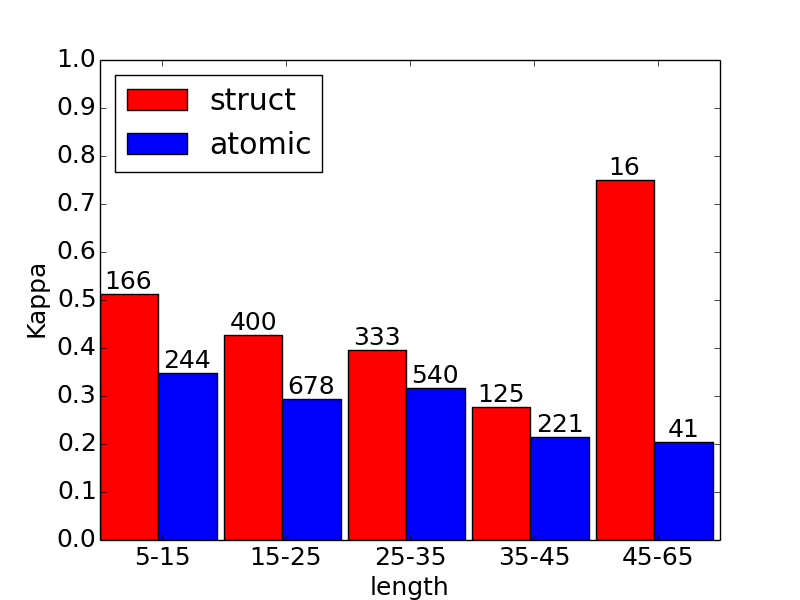
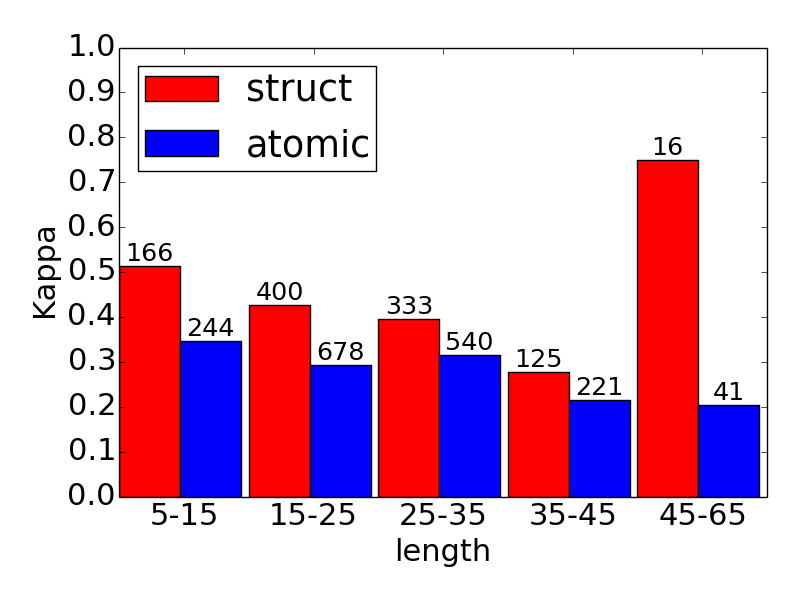
reinstate heatmap, figure scale

diff --git a/paper/main.tex b/paper/main.tex
@@ -17,7 +17,8 @@
 \newcommand{\secref}[1]{Section~\ref{#1}}
 \newcommand{\figref}[1]{Figure~\ref{#1}}
 \newcommand{\tabref}[1]{Table~\ref{#1}}
-\newcommand{\XXX}[1]{{\color{red}XXX #1}} % a general todo or comment
+%\newcommand{\XXX}[1]{{\color{red}XXX #1}} % a general todo or comment
+\newcommand{\XXX}[1]{}
 %\newcommand{\oa}[1]{\footnote{\color{red}OA: #1}}
 \newcommand{\oa}[1]{}
 %\newcommand{\bh}[1]{\footnote{\color{blue}BH: #1}}
@@ -1059,9 +1060,10 @@ To assess whether, as we hoped, HUME would make it easier to reliably annotate l
 we binned the sentences according to length and measured Kappa on each of the bins. Each bin covers
 a length range of 10, and we show the variance of kappa with length in \figref{fig:iaalength}.
 
-\def\iaafig #1{\includegraphics[width=7cm]{iaa_length_#1.png}}
+\def\iaafig #1{\includegraphics[width=3.8cm]{iaa_length_#1.png}}
 
-\begin{figure*}[ht!]
+\begin{figure}[ht!]
+\renewcommand{\tabcolsep}{0pt}
 \begin{tabular}{cc}
 
 
@@ -1088,38 +1090,7 @@ a length range of 10, and we show the variance of kappa with length in \figref{f
 \caption{Inter-annotator Agreement (Kappa) versus sentence length, separately for
 structural and atomic nodes. The numbers are the node counts in each bin. }
 \label{fig:iaalength}
-\end{figure*}
-
-\def\iaafig #1{\includegraphics[width=7cm]{iaa_heatmap_#1.png}}
-
-%\begin{figure*}[ht!]
-%\begin{tabular}{cc}
-%
-%
-%\subfloat[English-Czech]{
-%  \iaafig{cs}
-%}
-%&
-%\subfloat[English-German]{
-%  \iaafig{de}
-%
-%}
-%\\
-%
-%\subfloat[English-Polish]{
-%  \iaafig{pl}
-%  
-%}
-%&
-%\subfloat[English-Romanian]{
-%  \iaafig{ro}
-%
-%}
-%\end{tabular}
-%\caption{Confusion matrices for each of the language pairs, plotted as heatmaps.}
-%\label{fig:heatmap}
-%\end{figure*}
-
+\end{figure}
 
 We see from \figref{fig:iaalength} that there is no reduction of IAA with sentence
 length, except perhaps in German. Also, from \tabref{tab:iaa} the overall IAA
@@ -1142,6 +1113,39 @@ are more skewed. Finally we note some evidence of domain-specific disagreements,
 MT system normally translated ``review'' (as in ``systematic review'' -- a frequent term in the 
 Cochrane texts) as ``\"uberpr\"ufung'', which 
 one annotator marked correct, and the other (a Cochrane employee)  as incorrect.
+
+\def\iaafig #1{\includegraphics[width=3.8cm]{iaa_heatmap_#1.png}}
+
+\begin{figure}[ht!]
+\renewcommand{\tabcolsep}{0pt}
+\begin{tabular}{cc}
+
+
+\subfloat[English-Czech]{
+  \iaafig{cs}
+}
+&
+\subfloat[English-German]{
+  \iaafig{de}
+
+}
+\\
+
+\subfloat[English-Polish]{
+  \iaafig{pl}
+  
+}
+&
+\subfloat[English-Romanian]{
+  \iaafig{ro}
+
+}
+\end{tabular}
+\caption{Confusion matrices for each of the language pairs, plotted as heatmaps.}
+\label{fig:heatmap}
+\end{figure}
+
+
 
 %\subsection{Discussion of Disagreements}\label{sec:disagreements}
 

diff --git a/scripts/iaa_binned.py b/scripts/iaa_binned.py
@@ -71,12 +71,12 @@ def do_bins(agree, bins, field_name, csv_file, graph_file, name):
         offset += width
         for rect, count in zip(rects[-1], counts[group]):
           ax.text(rect.get_x() + rect.get_width()/2, rect.get_height(), str(count), 
-              ha='center', va='bottom')
+              ha='center', va='bottom', size='small')
       ax.set_yticks(np.arange(0,1.1,0.1))
       ax.set_xticks(index + 0.5)
       ax.set_xlim(0,len(bins))
       ax.set_xticklabels(["{}-{}".format(n,m) for n,m in bins])
-      lgd = ax.legend([r[0] for r in rects],[g for g,_ in groups], loc='upper left')#, bbox_to_anchor=(1.0,1.1))
+      lgd = ax.legend([r[0] for r in rects],[g for g,_ in groups], loc='upper left', borderpad=0.2)#, bbox_to_anchor=(1.0,1.1))
       #ax.set_title("Kappa by {}: {}".format(name, lang_name))
       ax.set_ylabel("Kappa")
       ax.set_xlabel(name)
@@ -110,7 +110,8 @@ def main():
 
 
   # font size
-  plt.rcParams.update({'font.size': 18})
+  plt.rcParams.update({'font.size': 22})
+  plt.rcParams.update({'figure.autolayout': True})
   
   sentences = pandas.read_csv(args.sentence_file)
   nodes = pandas.read_csv(args.node_file, converters={'node_id': str, 'parent' : str})
